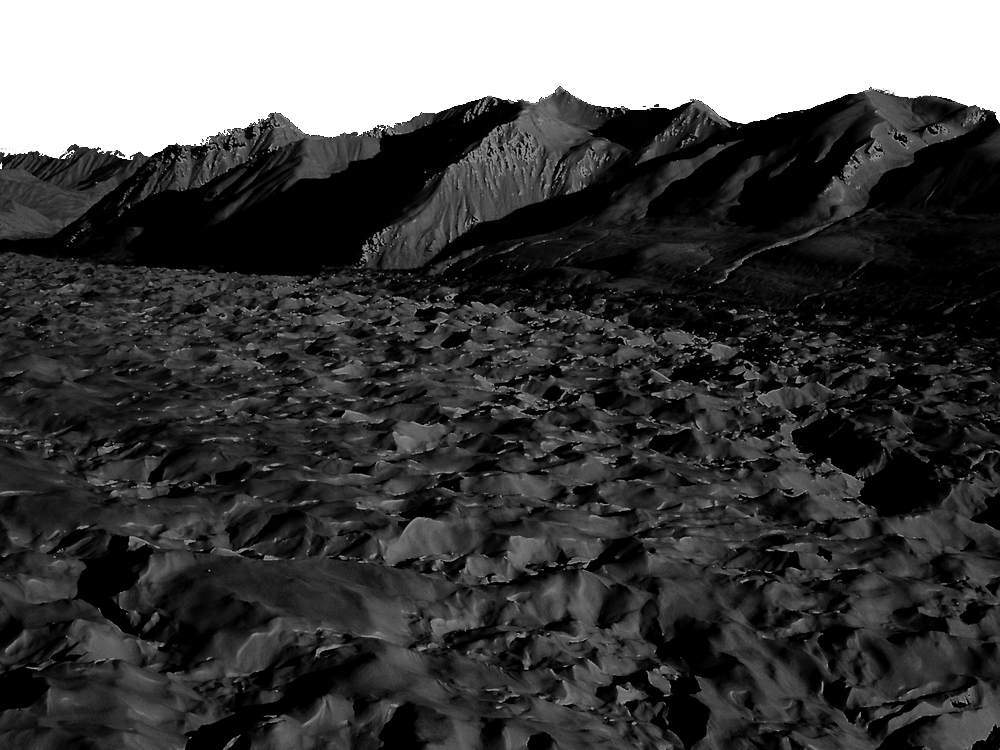
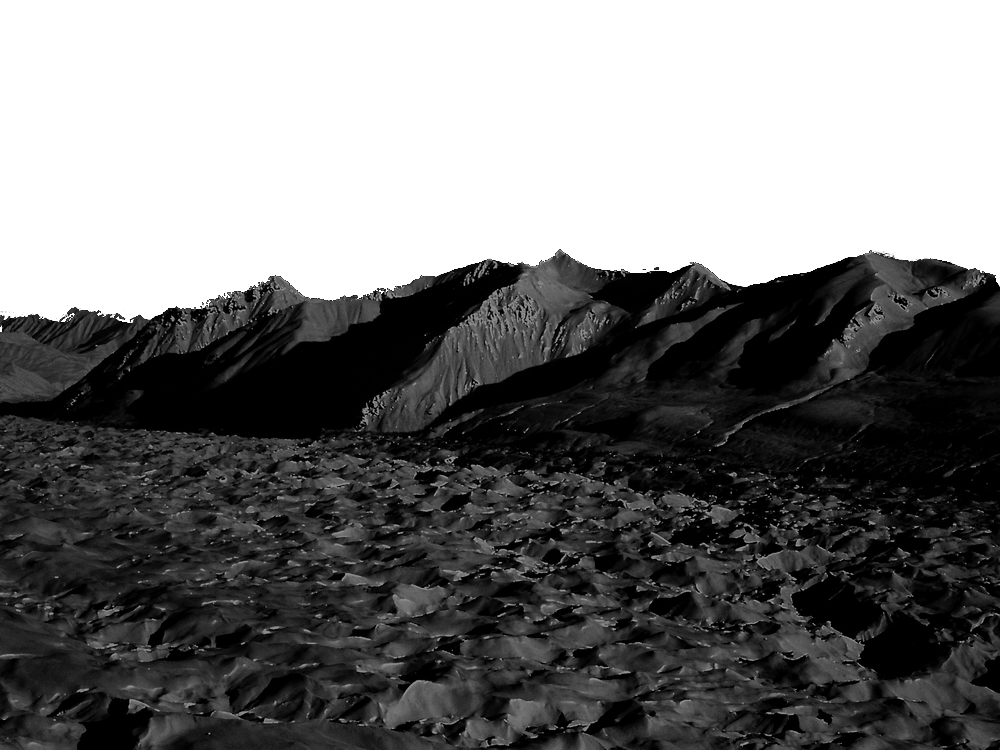
Improve backdrops.  Bigger lander

diff --git a/planetscene.py b/planetscene.py
@@ -19,7 +19,7 @@ to_remove = []
 
 class PlanetScene(GameScene):
 
-    def __init__(self, seed=5):
+    def __init__(self, seed=3):
         super(PlanetScene, self).__init__()
 
         self.seed = seed
@@ -84,8 +84,8 @@ class PlanetScene(GameScene):
                                    # Get modifier specific params
                                    modifier_seed)
 
-        init_pos = terraingen.get_initial_position(terrain_raw, 0)
-        init_lander = terraingen.get_initial_position(terrain_raw, -10)
+        init_pos = terraingen.get_initial_position(terrain_raw, 0, 2)
+        init_lander = terraingen.get_initial_position(terrain_raw, -10, 5)
 
         self.terrain = shapes.TerrainBulk(self.world, terrain_raw)
         self.lander = lander_shapes.StationaryLander(self.world, init_lander)
@@ -98,9 +98,9 @@ class PlanetScene(GameScene):
         for x in range(0, numFuels):
 
             xPos = r.randint(-250, 250)
-            yPos = terraingen.get_initial_position(terrain_raw, xPos)[1] + 5
+            pos = terraingen.get_initial_position(terrain_raw, xPos, 5)
 
-            fuel = shapes.FuelShape(self.world, (xPos, yPos))
+            fuel = shapes.FuelShape(self.world, pos)
             fuel.info = {"gameObject": fuel}
             self.fuels.append(fuel)
 
@@ -110,9 +110,9 @@ class PlanetScene(GameScene):
         for x in range(0, numFuels):
 
             xPos = r.randint(-250, 250)
-            yPos = terraingen.get_initial_position(terrain_raw, xPos)[1] + 5
+            pos = terraingen.get_initial_position(terrain_raw, xPos, 5)
 
-            health = shapes.HealthShape(self.world, (xPos, yPos))
+            health = shapes.HealthShape(self.world, pos)
             health.info = {"gameObject": health}
             self.healths.append(health)
 

diff --git a/lander_shapes.py b/lander_shapes.py
@@ -43,13 +43,13 @@ class Lander(DynamicGameObject):
         # self.sensor.userData = "LanderCollisionArea"
 
 
-class StationaryLander(DynamicGameObject):
+class StationaryLander(StaticGameObject):
 
     def __init__(self, world, position):
         polygon_points = [[[0.39,0], [0.66,0], [1,0.3], [1,0.9], [0,0.9],[0,0.3]]]
         circle_shapes = []
         image_path = "assets/lander.png"
-        scale = 3
+        scale = 10
 
         density = 100
         friction = 1.0

diff --git a/terraingen.py b/terraingen.py
@@ -118,12 +118,12 @@ def generate_terrain_test(width, height):
 
     return terrain
 
-def get_initial_position(terrain, x):
+def get_initial_position(terrain, x, yoffset):
     width, height = terrain.shape
     c = x+int(width/2)
     for y in reversed(range(0,height)):
         if terrain[c, y]:
-            return (x,y+2)
+            return (x,y+yoffset)
 
 def print_terrain(terrain, chars):
     width, height = terrain.shape
